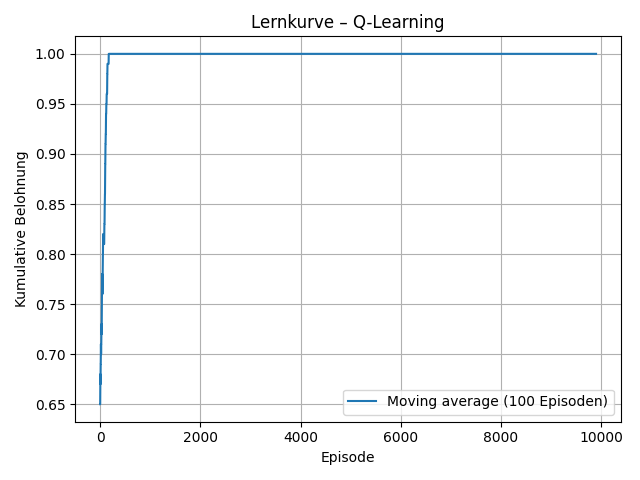
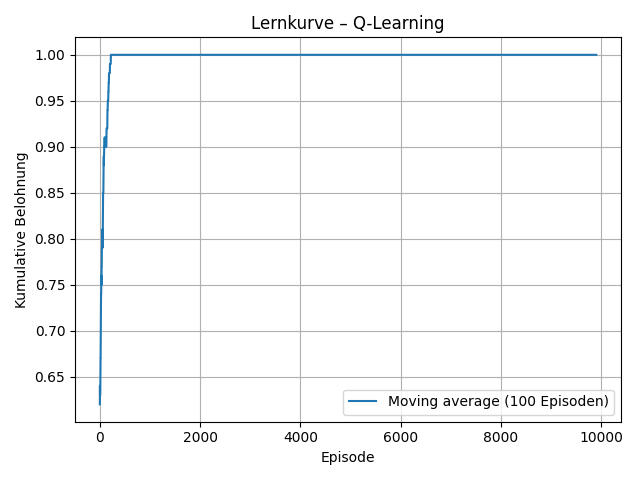
commit

diff --git a/Aufgabe_2_IMPLEMENTATION/main.py b/Aufgabe_2_IMPLEMENTATION/main.py
@@ -3,9 +3,16 @@ Aufgabe 2 – Q-Learning mit ε-greedy-Strategie
 
 Der Agent lernt mittels tabellarischem Q-Learning mit festen Parametern.
 """
+import matplotlib
+matplotlib.use("Agg")        # Headless backend – notwendig für GIF‑Erstellung
 import numpy as np
 import matplotlib.pyplot as plt
 from fp_classes import environment, agent
+from celluloid import Camera          # Celluloid‑GIF laut Aufgabenstellung
+from datetime import datetime
+
+# Zeitstempel für Dateien
+now = datetime.now().strftime("%Y-%m-%dT%H-%M-%S")
 
 # ------------------------------------------------------------
 # 1) Umfeld + Agent initialisieren
@@ -56,8 +63,40 @@ plt.legend()
 plt.grid()
 plt.tight_layout()
 plt.savefig("aufgabe2_learning_curve.png")
-plt.show()
-from datetime import datetime
-now = datetime.now().strftime("%Y-%m-%dT%H-%M-%S")
+# plt.show()    # im Agg‑Backend nicht interaktiv
+
+# ------------------------------------------------------------
+# 4) Demo‑Episode filmen (GIF)  –  Celluloid
+# ------------------------------------------------------------
+fig2, ax2 = plt.subplots(figsize=(8, 2))
+ax2.set_ylim(-0.5, 0.5)
+ax2.set_xlim(0, env.N_states - 1)
+ax2.set_yticks([])
+ax2.set_xlabel("x‑Position (Zustand)")
+ax2.set_title("Agenten‑Trajektorie – Q‑Policy (greedy)")
+ax2.axvline(env.target_position, color="g", linestyle="--")
+
+camera = Camera(fig2)
+
+# Greedy‑Policy aufnehmen
+learner.epsilon = 0.0
+learner.x = env.starting_position
+
+for _ in range(2 * env.N_states):
+    ax2.plot(learner.x, 0, "ro")        # Agent
+    camera.snap()
+
+    learner.choose_action(env)
+    learner.perform_action(env)
+
+    if learner.x == env.target_position:
+        ax2.plot(learner.x, 0, "ro")
+        camera.snap()
+        break
+
+gif_name = f"aufgabe2_trajectory_{now}.gif"
+camera.animate().save(gif_name, writer="pillow", fps=4)
+print(f"GIF gespeichert als {gif_name}")
+
 with open(f'Q_MATRIX_{now}.txt', 'w') as f:
     f.write(str(learner.Q))

diff --git a/Aufgabe_2_IMPLEMENTATION/fp_classes.py b/Aufgabe_2_IMPLEMENTATION/fp_classes.py
@@ -45,10 +45,12 @@ class agent:
 
     def choose_action(self, env_: environment) -> None:
         if np.random.rand() < self.epsilon:
+            # Zufallswahl (0 = links, 1 = stehen, 2 = rechts)
             self.chosen_action = np.random.randint(3)
         else:
             max_indices = np.argwhere(self.Q[self.x] == np.max(self.Q[self.x])).flatten()
-            self.chosen_action = np.random.choice(max_indices)
+            # Immer den kleinsten Index nehmen, damit bei Gleichstand Vorrang "links"
+            self.chosen_action = int(np.min(max_indices))
 
     def perform_action(self, env_: environment) -> float:
         """Führt die gewählte Aktion aus und gibt die Belohnung zurück."""
